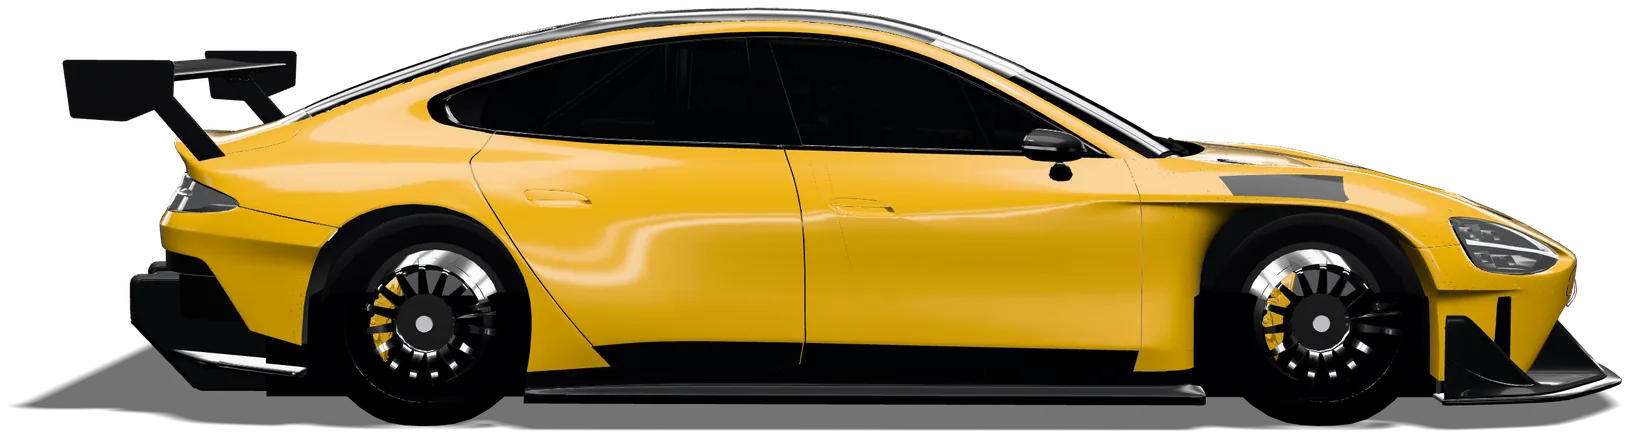
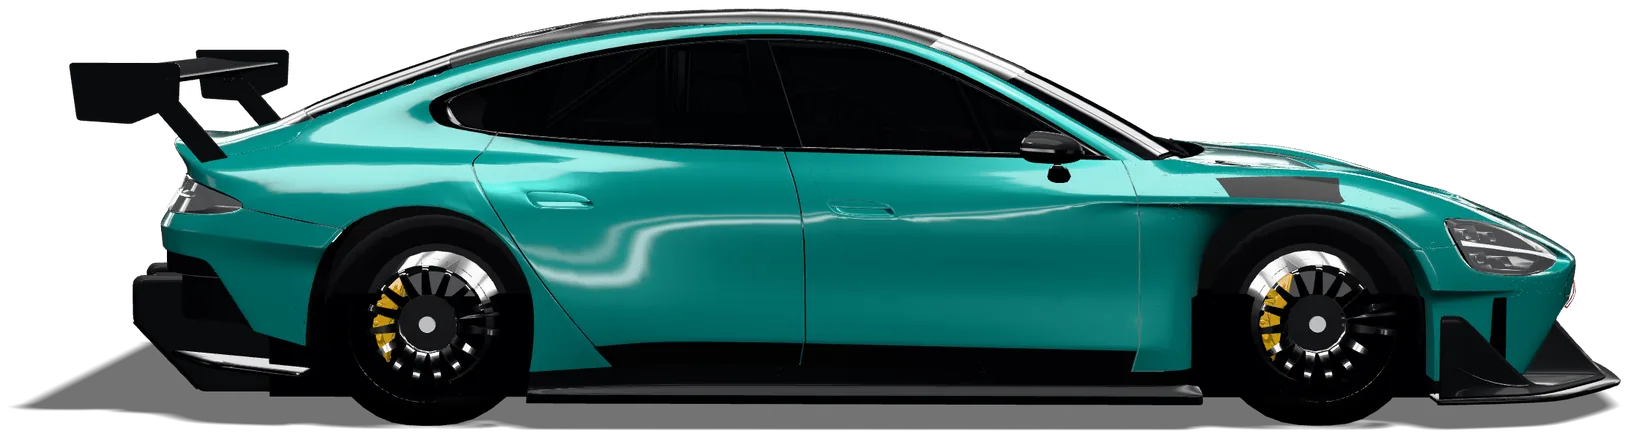
Motorspace preview (wind tunnel B)

diff --git a/en/index-galeria.html b/en/index-galeria.html
@@ -33,7 +33,7 @@
 <link rel="stylesheet" href="../corridor/texture.css?v=b91ead7c">
 <link rel="stylesheet" href="../corridor/motion.css?v=0f369f55">
 <link rel="stylesheet" href="../corridor/wind.css?v=8c9a8278">
-<link rel="stylesheet" href="../corridor/wind3d.css?v=c1e2ea4f">
+<link rel="stylesheet" href="../corridor/wind3d.css?v=e0551733">
 <link rel="stylesheet" href="../corridor/report.css?v=ae830a7b">
 <link rel="stylesheet" href="../corridor/flow.css?v=84817739">
 <script>(function(){var d=document.documentElement,t='dark';try{var m=/[?&]theme=(light|dark|auto)/.exec(location.search);if(m){t=m[1];localStorage.setItem('kt-theme',t);}else{t=localStorage.getItem('kt-theme')||'dark';}}catch(e){}if(t==='auto'){d.removeAttribute('data-theme');}else{d.setAttribute('data-theme',t);}})();</script>
@@ -71,7 +71,7 @@
 <script src="../corridor/reveal.js?v=59cd2a53"></script>
 <script src="../corridor/branchfoot.js?v=0298b89a"></script>
 <script src="../corridor/spiral.js?v=52cce317"></script>
-<script src="../corridor/wind3d.js?v=84dbc1c2"></script>
+<script src="../corridor/wind3d.js?v=48603163"></script>
 <script type="speculationrules">{"prerender": [{"where": {"selector_matches": "a[data-car-link]"}, "eagerness": "moderate"}]}</script>
 <script>window.KT_DOC = "home"; window.KT_PRIVACY_URL = "privacy.html"; window.KT_LEAD_URL = ""; window.KT_LEAD_EXTRA = {};</script>
 <script>window.KT_LOCAL_FONTS = true; window.KT_LANG = "en"; window.KT_LANG_URLS = {"pl": "../index-galeria.html", "en": "../en/index-galeria.html", "zh": "../zh/index-galeria.html"}; window.KT_ASSETS = '../assets/'; window.KT_HOME_URL = 'index.html'; window.KT_OFFERS_URL = 'offers.html'; window.KT_TRACK_URL = 'tracking.html';</script>

diff --git a/zh/index-galeria.html b/zh/index-galeria.html
@@ -33,7 +33,7 @@
 <link rel="stylesheet" href="../corridor/texture.css?v=b91ead7c">
 <link rel="stylesheet" href="../corridor/motion.css?v=0f369f55">
 <link rel="stylesheet" href="../corridor/wind.css?v=8c9a8278">
-<link rel="stylesheet" href="../corridor/wind3d.css?v=c1e2ea4f">
+<link rel="stylesheet" href="../corridor/wind3d.css?v=e0551733">
 <link rel="stylesheet" href="../corridor/report.css?v=ae830a7b">
 <link rel="stylesheet" href="../corridor/flow.css?v=84817739">
 <script>(function(){var d=document.documentElement,t='dark';try{var m=/[?&]theme=(light|dark|auto)/.exec(location.search);if(m){t=m[1];localStorage.setItem('kt-theme',t);}else{t=localStorage.getItem('kt-theme')||'dark';}}catch(e){}if(t==='auto'){d.removeAttribute('data-theme');}else{d.setAttribute('data-theme',t);}})();</script>
@@ -71,7 +71,7 @@
 <script src="../corridor/reveal.js?v=59cd2a53"></script>
 <script src="../corridor/branchfoot.js?v=0298b89a"></script>
 <script src="../corridor/spiral.js?v=52cce317"></script>
-<script src="../corridor/wind3d.js?v=84dbc1c2"></script>
+<script src="../corridor/wind3d.js?v=48603163"></script>
 <script type="speculationrules">{"prerender": [{"where": {"selector_matches": "a[data-car-link]"}, "eagerness": "moderate"}]}</script>
 <script>window.KT_DOC = "home"; window.KT_PRIVACY_URL = "privacy.html"; window.KT_LEAD_URL = ""; window.KT_LEAD_EXTRA = {};</script>
 <script>window.KT_LOCAL_FONTS = true; window.KT_LANG = "zh"; window.KT_LANG_URLS = {"pl": "../index-galeria.html", "en": "../en/index-galeria.html", "zh": "../zh/index-galeria.html"}; window.KT_ASSETS = '../assets/'; window.KT_HOME_URL = 'index.html'; window.KT_OFFERS_URL = 'offers.html'; window.KT_TRACK_URL = 'tracking.html';</script>

diff --git a/index-galeria.html b/index-galeria.html
@@ -33,7 +33,7 @@
 <link rel="stylesheet" href="corridor/texture.css?v=b91ead7c">
 <link rel="stylesheet" href="corridor/motion.css?v=0f369f55">
 <link rel="stylesheet" href="corridor/wind.css?v=8c9a8278">
-<link rel="stylesheet" href="corridor/wind3d.css?v=c1e2ea4f">
+<link rel="stylesheet" href="corridor/wind3d.css?v=e0551733">
 <link rel="stylesheet" href="corridor/report.css?v=ae830a7b">
 <link rel="stylesheet" href="corridor/flow.css?v=84817739">
 <script>(function(){var d=document.documentElement,t='dark';try{var m=/[?&]theme=(light|dark|auto)/.exec(location.search);if(m){t=m[1];localStorage.setItem('kt-theme',t);}else{t=localStorage.getItem('kt-theme')||'dark';}}catch(e){}if(t==='auto'){d.removeAttribute('data-theme');}else{d.setAttribute('data-theme',t);}})();</script>
@@ -71,7 +71,7 @@
 <script src="corridor/reveal.js?v=59cd2a53"></script>
 <script src="corridor/branchfoot.js?v=0298b89a"></script>
 <script src="corridor/spiral.js?v=52cce317"></script>
-<script src="corridor/wind3d.js?v=84dbc1c2"></script>
+<script src="corridor/wind3d.js?v=48603163"></script>
 <script type="speculationrules">{"prerender": [{"where": {"selector_matches": "a[data-car-link]"}, "eagerness": "moderate"}]}</script>
 <script>window.KT_DOC = "home"; window.KT_PRIVACY_URL = "polityka-prywatnosci.html"; window.KT_LEAD_URL = ""; window.KT_LEAD_EXTRA = {};</script>
 <script>window.KT_LOCAL_FONTS = true; window.KT_LANG = "pl"; window.KT_LANG_URLS = {"pl": "index-galeria.html", "en": "en/index-galeria.html", "zh": "zh/index-galeria.html"}; window.KT_ASSETS = 'assets/'; window.KT_HOME_URL = 'index.html'; window.KT_OFFERS_URL = 'oferty.html'; window.KT_TRACK_URL = 'sledzenie.html';</script>

diff --git a/corridor/wind3d.css b/corridor/wind3d.css
@@ -3,11 +3,11 @@
    the chips and the readout keep wind.css's rules. */
 .msw .wt3-gl { position: absolute; inset: 0; z-index: 1; width: 100%; height: 100%; display: block; opacity: 0; transition: opacity .9s; touch-action: pan-y; }
 .msw.is-ready .wt3-gl { opacity: 1; }
-.msw .wt3-poster { position: absolute; left: 50%; top: 50%; z-index: 1; width: min(1180px, 86%); height: auto; transform: translate(-50%, -50%); pointer-events: none; opacity: 1; transition: opacity .9s; }
+.msw .wt3-poster { position: absolute; left: 50%; top: 50%; z-index: 1; width: min(1120px, 76%); height: auto; transform: translate(-50%, -50%); pointer-events: none; opacity: 1; transition: opacity .9s; }
 .msw.is-ready .wt3-poster { opacity: 0; }
 .msw.is-static .wt-flow { display: none; }
 .msw .wt-stage { --lo: 0; cursor: grab; }
 .msw .wt-stage.is-drag, .msw .wt-stage.is-drag.is-over { cursor: grabbing; }
 /* the car is drawn bigger than the 2D pictures' frame allowed: a taller stage (wind.js's 60vh) on wide screens */
 @media (min-width: 701px) { .msw .wt-stage { height: clamp(400px, 68vh, 760px); } }
-@media (max-width: 700px) { .msw .wt3-poster { width: 97%; } }
+@media (max-width: 700px) { .msw .wt3-poster { width: 94%; } }

diff --git a/corridor/wind3d.js b/corridor/wind3d.js
@@ -280,10 +280,10 @@
     if (!renderer) return;
     renderer.setPixelRatio(DPR); renderer.setSize(W, H, false);
     cam.aspect = W / H; cam.updateProjectionMatrix();
-    // side-on, the car (5.3 m) fills about 84% of the stage width (97% on phones; at most 1260 px), and never more
-    // than half of its height, so the air above it and the reflection below keep their room
-    var tn = Math.tan(cam.fov * Math.PI / 360), frac = W < 700 ? 0.97 : Math.min(0.84, 1260 / W);
-    camD = Math.max(3.0 / (frac * tn * cam.aspect), 1.3 / (0.5 * 2 * tn));   // 3.0: half the length, plus the near corners' perspective
+    // side-on, the car (5.3 m) fills about 76% of the stage width (94% on phones; at most 1120 px), and never more
+    // than 45% of its height, so the air above it and the reflection below keep their room (主人 10-24: 「稍微太大了，缩小一点点」)
+    var tn = Math.tan(cam.fov * Math.PI / 360), frac = W < 700 ? 0.94 : Math.min(0.76, 1120 / W);
+    camD = Math.max(3.0 / (frac * tn * cam.aspect), 1.3 / (0.45 * 2 * tn));   // 3.0: half the length, plus the near corners' perspective
     maskDue = true;
   }
   function placeCamera() {
